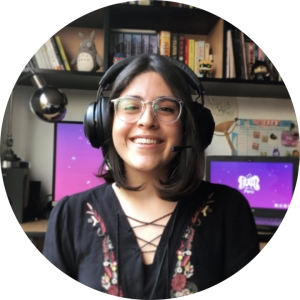
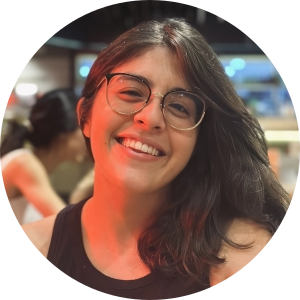
Updated team members

diff --git a/index.html b/index.html
@@ -167,18 +167,19 @@
 					
 				</div>
 			</div>
+			<!-- Support Team Section-->
 			<div class="container">
 				<!-- Support Team Section Heading-->
 				<h3 class="text-center text-uppercase mb-0">Colaboradores</h2>
 				<!-- Support Team Info Section-->
 				<div class="row justify-content-center" style="max-width: 940px;margin: auto;">
-					<!-- Support Member Kira-->
+					<!-- Support Member Shirley-->
 					<div class="col-md-6 col-lg-4 mb-3">
 						<div class="support-item custom-box">
-							<img class="support-img" src="assets/img/team/kira.webp" alt="..." />
+							<img class="support-img" src="assets/img/team/shirley.webp" alt="..." />
 							<p></p>
-						<p class="support-name">Vania Torres</p>
-						<p class="support-title">Apoyo en Arte</p>
+						<p class="support-name">Shirley Abanto</p>
+						<p class="support-title">Apoyo WGJ</p>
 						</div>
 					</div>
 					<!-- Support Member Pilar-->
@@ -187,16 +188,16 @@
 							<img class="support-img" src="assets/img/team/pilar.webp" alt="..." />
 							<p></p>
 						<p class="support-name">Pilar Milla</p>
-						<p class="support-title">Apoyo en Eventos</p>
+						<p class="support-title">Apoyo Eventos</p>
 						</div>
 					</div>
-					<!-- Support Member Boris-->
+					<!-- Support Member Kira-->
 					<div class="col-md-6 col-lg-4 mb-3">
 						<div class="support-item custom-box">
-							<img class="support-img" src="assets/img/team/boris.webp" alt="..." />
+							<img class="support-img" src="assets/img/team/kira.webp" alt="..." />
 							<p></p>
-						<p class="support-name">Boris Fernández</p>
-						<p class="support-title">Apoyo en Streams y Eventos</p>
+						<p class="support-name">Vania Torres</p>
+						<p class="support-title">Apoyo Arte</p>
 						</div>
 					</div>
 					<!-- Support Member Lili-->
@@ -205,7 +206,7 @@
 							<img class="support-img" src="assets/img/team/lilimoncito.webp" alt="..." />
 							<p></p>
 						<p class="support-name">Liliana Vilchez</p>
-						<p class="support-title">Apoyo en Arte</p>
+						<p class="support-title">Apoyo Arte</p>
 						</div>
 					</div>
 					<!-- Support Member Beto-->
@@ -244,8 +245,10 @@
 								¡Aprende más aquí!
 							</a>
 						</div>
-						<p class="lead-center" style="margin-top: 1rem;">
-							Cierre de postulaciones: <b>15 de diciembre del 2024</b>
+						<p class="small center" style="margin-top: 1rem; ">
+							<b>Postulaciones al FemDevs Latam: GDC Scholarship 2025 cerradas</b>
+						</br>
+							¡Siguenos en redes para enterarte de las ganadoras!
 						</p>
 					</div>
 					<div class="col-lg-5 my-auto" style="padding: 0 50px;">

diff --git a/en.html b/en.html
@@ -167,13 +167,12 @@
 				<h3 class="text-center text-uppercase mb-0">Collaborators</h2>
 				<!-- Support Team Info Section-->
 				<div class="row justify-content-center" style="max-width: 940px;margin: auto;">
-					<!-- Support Member Kira-->
 					<div class="col-md-6 col-lg-4 mb-3">
 						<div class="support-item custom-box">
-							<img class="support-img" src="assets/img/team/kira.webp" alt="..." />
+							<img class="support-img" src="assets/img/team/shirley.webp" alt="..." />
 							<p></p>
-						<p class="support-name">Vania Torres</p>
-						<p class="support-title">Art Support</p>
+						<p class="support-name">Shirley Abanto</p>
+						<p class="support-title">WGJ Assistant</p>
 						</div>
 					</div>
 					<!-- Support Member Pilar-->
@@ -185,13 +184,13 @@
 						<p class="support-title">Events Support</p>
 						</div>
 					</div>
-					<!-- Support Member Boris-->
+					<!-- Support Member Kira-->
 					<div class="col-md-6 col-lg-4 mb-3">
 						<div class="support-item custom-box">
-							<img class="support-img" src="assets/img/team/boris.webp" alt="..." />
+							<img class="support-img" src="assets/img/team/kira.webp" alt="..." />
 							<p></p>
-						<p class="support-name">Boris Fernández</p>
-						<p class="support-title">Streams and Events Support</p>
+						<p class="support-name">Vania Torres</p>
+						<p class="support-title">Art Support</p>
 						</div>
 					</div>
 					<!-- Support Member Lili-->
@@ -239,8 +238,10 @@
 								Learn more about it here!
 							</a>
 						</div>
-						<p class="lead-center" style="margin-top: 1rem;">
-							Applications close: <b>December 15, 2024</b>
+						<p class="small center" style="margin-top: 1rem; ">
+							<b>FemDevs Latam: GDC Scholarship 2025 applications closed</b>
+						</br>
+							Follow our social media to know the winners!
 						</p>
 					</div>
 					<div class="col-lg-5 my-auto" style="padding: 0 50px;">

diff --git a/css/styles.css b/css/styles.css
@@ -565,6 +565,11 @@ progress {
   font-family: 'Quicksand';
 }
 
+.center {
+  text-align: center;
+  font-family: 'Quicksand';
+}
+
 .display-1 {
   font-size: calc(1.625rem + 4.5vw);
   font-weight: 300;
